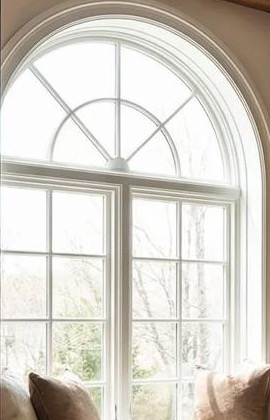
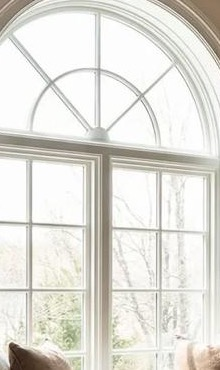
Attic: chair in the corner, seated legs, case clearance, fabric cushions, clean window, zoom buttons

diff --git a/src/lib/attic/scene.ts b/src/lib/attic/scene.ts
@@ -113,6 +113,33 @@ function wood(color: string, roughness = 0.82) {
   return new THREE.MeshStandardMaterial({ color, map: grain(), roughness, metalness: 0.02 });
 }
 
+function fabricTexture(base: string): THREE.Texture {
+  return canvasTexture(256, 256, (ctx) => {
+    const rand = rng(29);
+    ctx.fillStyle = base;
+    ctx.fillRect(0, 0, 256, 256);
+    for (let i = 0; i < 5200; i++) {
+      const light = rand() > 0.5;
+      ctx.fillStyle = light ? "rgba(255,255,255,0.05)" : "rgba(0,0,0,0.05)";
+      ctx.fillRect(rand() * 256, rand() * 256, 1.6, 1.6);
+    }
+    ctx.strokeStyle = "rgba(0,0,0,0.04)";
+    ctx.lineWidth = 1;
+    for (let x = 0; x < 256; x += 5) {
+      ctx.beginPath();
+      ctx.moveTo(x, 0);
+      ctx.lineTo(x, 256);
+      ctx.stroke();
+    }
+    for (let y = 0; y < 256; y += 5) {
+      ctx.beginPath();
+      ctx.moveTo(0, y);
+      ctx.lineTo(256, y);
+      ctx.stroke();
+    }
+  });
+}
+
 function plaster(color: string) {
   return new THREE.MeshStandardMaterial({ color, roughness: 0.95, metalness: 0 });
 }
@@ -517,7 +544,7 @@ export function createAttic(canvas: HTMLCanvasElement, options: AtticOptions = {
   scene.background = new THREE.Color("#2a1c12");
   scene.fog = new THREE.FogExp2(0x2a1c12, 0.012);
 
-  const camera = new THREE.PerspectiveCamera(66, 1, 0.05, 60);
+  const camera = new THREE.PerspectiveCamera(68, 1, 0.05, 60);
 
   /* --- books ---------------------------------------------------------- */
 
@@ -556,11 +583,11 @@ export function createAttic(canvas: HTMLCanvasElement, options: AtticOptions = {
 
   // Rug
   const rug = new THREE.Mesh(
-    new THREE.PlaneGeometry(3.6, 2.6),
+    new THREE.PlaneGeometry(3.1, 2.35),
     new THREE.MeshStandardMaterial({ map: rugTexture(), roughness: 1 }),
   );
   rug.rotation.x = -Math.PI / 2;
-  rug.position.set(0.45, 0.008, 0.15);
+  rug.position.set(0.15, 0.008, 0.1);
   rug.receiveShadow = true;
   scene.add(rug);
 
@@ -670,16 +697,6 @@ export function createAttic(canvas: HTMLCanvasElement, options: AtticOptions = {
   view.position.set(0, WIN.sill + (WIN.arch + WIN.spring - WIN.sill) / 2, -ROOM.d / 2 - 0.07);
   scene.add(view);
 
-  // Mullions
-  const barMat = wood("#efe8d9", 0.55);
-  const barV = new THREE.Mesh(rounded(0.045, 2.2, 0.05, 0.008), barMat);
-  barV.position.set(0, 1.45, -ROOM.d / 2 + 0.2);
-  scene.add(barV);
-  for (const y of [1.45, 2.05]) {
-    const barH = new THREE.Mesh(rounded(WIN.w, 0.045, 0.05, 0.008), barMat);
-    barH.position.set(0, y, -ROOM.d / 2 + 0.2);
-    scene.add(barH);
-  }
 
   // Sill and window seat
   const sill = new THREE.Mesh(rounded(2.9, 0.09, 0.24, 0.02), wood("#e9e0cf", 0.7));
@@ -695,17 +712,58 @@ export function createAttic(canvas: HTMLCanvasElement, options: AtticOptions = {
   seatTop.position.set(0, 0.51, -ROOM.d / 2 + 0.42);
   scene.add(seatTop);
 
-  const cushionMat = new THREE.MeshStandardMaterial({ color: "#b3a58d", roughness: 1, map: grain() });
-  const cushionMat2 = new THREE.MeshStandardMaterial({ color: "#9c886c", roughness: 1, map: grain() });
-  [["#d8cbb4", -0.85, 0.75], ["#c3ad8c", -0.18, 0.66], ["#e9e2d4", 0.5, 0.7]].forEach(
-    ([color, x, w], i) => {
-      const cushion = new THREE.Mesh(rounded(Number(w), 0.22, 0.46, 0.07), i === 1 ? cushionMat2 : cushionMat);
-      cushion.position.set(Number(x), 0.69, -ROOM.d / 2 + 0.42);
-      cushion.rotation.z = (i - 1) * 0.06;
-      cushion.castShadow = true;
-      scene.add(cushion);
-    },
+  const cushionA = new THREE.MeshStandardMaterial({
+    map: fabricTexture("#d9cdb6"),
+    roughness: 1,
+    color: "#ffffff",
+  });
+  const cushionB = new THREE.MeshStandardMaterial({
+    map: fabricTexture("#a98a63"),
+    roughness: 1,
+    color: "#ffffff",
+  });
+
+  const cushions: Array<[THREE.Material, number, number, number]> = [
+    [cushionA, -0.92, 0.8, 0.24],
+    [cushionB, -0.16, 0.72, 0.28],
+    [cushionA, 0.55, 0.66, 0.22],
+  ];
+  cushions.forEach(([material, x, w, h], i) => {
+    const cushion = new THREE.Mesh(rounded(w, h, 0.46, 0.1), material);
+    cushion.position.set(x, 0.51 + h / 2 + 0.01, -ROOM.d / 2 + 0.42);
+    cushion.rotation.z = (i - 1) * 0.05;
+    cushion.rotation.y = (i - 1) * 0.04;
+    cushion.castShadow = true;
+    scene.add(cushion);
+  });
+
+  // A folded throw over the left end of the seat.
+  const throwTex = canvasTexture(256, 256, (ctx) => {
+    ctx.fillStyle = "#6d4a3a";
+    ctx.fillRect(0, 0, 256, 256);
+    ctx.strokeStyle = "rgba(232, 220, 200, 0.35)";
+    ctx.lineWidth = 6;
+    for (let x = 0; x < 256; x += 42) {
+      ctx.beginPath();
+      ctx.moveTo(x, 0);
+      ctx.lineTo(x, 256);
+      ctx.stroke();
+    }
+    ctx.lineWidth = 3;
+    for (let y = 0; y < 256; y += 42) {
+      ctx.beginPath();
+      ctx.moveTo(0, y);
+      ctx.lineTo(256, y);
+      ctx.stroke();
+    }
+  });
+  const throwBlanket = new THREE.Mesh(
+    rounded(0.52, 0.06, 0.5, 0.02),
+    new THREE.MeshStandardMaterial({ map: throwTex, roughness: 1 }),
   );
+  throwBlanket.position.set(-1.02, 0.6, -ROOM.d / 2 + 0.42);
+  throwBlanket.rotation.y = 0.12;
+  scene.add(throwBlanket);
 
   // Books lying on the seat (the ones being read)
   reading.slice(0, 3).forEach((book, i) => {
@@ -723,10 +781,10 @@ export function createAttic(canvas: HTMLCanvasElement, options: AtticOptions = {
   const caseW = SHELF.w;
   const third = Math.ceil(toRead.length / 3);
 
-  const makeCase = (books: Book[], width = caseW, rows = SHELF.rows) =>
+  const makeCase = (books: Book[], width = caseW, rows = SHELF.rows, height = SHELF.h) =>
     buildCase({
       width,
-      height: SHELF.h,
+      height,
       rows,
       books,
       atlases: toReadAtlas.atlases,
@@ -743,7 +801,7 @@ export function createAttic(canvas: HTMLCanvasElement, options: AtticOptions = {
   scene.add(right);
 
   // The third case, on the right wall behind the chair.
-  const backCase = makeCase(toRead.slice(third * 2), 2.5);
+  const backCase = makeCase(toRead.slice(third * 2), 2.5, 4, 2.4);
   backCase.position.set(ROOM.w / 2 - 0.2, 0, -1.0);
   backCase.rotation.y = -Math.PI / 2;
   scene.add(backCase);
@@ -769,7 +827,7 @@ export function createAttic(canvas: HTMLCanvasElement, options: AtticOptions = {
     leaf.rotation.set(leafRand() * 0.8 - 0.3, a, leafRand() * 0.7 - 0.35);
     plant.add(leaf);
   }
-  plant.position.set(3.35, 0, 1.55);
+  plant.position.set(3.4, 0, 1.7);
   scene.add(plant);
 
   const floorStack = new THREE.Group();
@@ -782,7 +840,7 @@ export function createAttic(canvas: HTMLCanvasElement, options: AtticOptions = {
     book.rotation.y = (leafRand() - 0.5) * 0.2;
     floorStack.add(book);
   }
-  floorStack.position.set(3.05, 0, 1.05);
+  floorStack.position.set(3.1, 0, 1.2);
   scene.add(floorStack);
 
   /* --- the leather club chair  /* --- the leather club chair ------------------------------------------ */
@@ -880,15 +938,15 @@ export function createAttic(canvas: HTMLCanvasElement, options: AtticOptions = {
 
   for (const [sx, sz] of [[-1, -1], [1, -1], [-1, 1], [1, 1]] as const) {
     const leg = new THREE.Mesh(
-      new THREE.CylinderGeometry(0.032, 0.026, 0.2, 10),
+      new THREE.CylinderGeometry(0.032, 0.026, 0.27, 10),
       wood("#3a2415", 0.7),
     );
-    leg.position.set(sx * 0.36, 0.1, sz * 0.3);
+    leg.position.set(sx * 0.36, 0.135, sz * 0.3);
     chair.add(leg);
   }
 
-  chair.position.set(1.55, 0, -0.05);
-  chair.rotation.y = -1.15;
+  chair.position.set(2.45, 0, -0.95);
+  chair.rotation.y = -2.2;
   scene.add(chair);
 
   /* --- the round table -------------------------------------------------- */
@@ -954,7 +1012,7 @@ export function createAttic(canvas: HTMLCanvasElement, options: AtticOptions = {
     table.add(book);
   }
 
-  table.position.set(2.42, 0, 0.72);
+  table.position.set(2.3, 0, 0.35);
   scene.add(table);
 
   /* --- contact shadows -------------------------------------------------- */
@@ -1083,8 +1141,8 @@ export function createAttic(canvas: HTMLCanvasElement, options: AtticOptions = {
     maxDolly: 1,
   };
 
-  const base = new THREE.Vector3(-1.85, 1.68, 2.55);
-  const look = new THREE.Vector3(0.95, 1.9, -3.3);
+  const base = new THREE.Vector3(-1.35, 1.68, 2.85);
+  const look = new THREE.Vector3(1.7, 1.9, -3.3);
 
   function pose(yaw = rig.yaw, dolly = rig.dolly) {
     const pos = new THREE.Vector3(base.x + Math.sin(yaw) * 0.45, base.y, base.z - dolly * 1.8);
@@ -1163,7 +1221,7 @@ export function createAttic(canvas: HTMLCanvasElement, options: AtticOptions = {
     if (Math.abs(e.deltaX) > Math.abs(e.deltaY)) {
       rig.goalYaw = Math.max(rig.minYaw, Math.min(rig.maxYaw, rig.goalYaw + e.deltaX * 0.003));
     } else {
-      rig.goalDolly = Math.max(rig.minDolly, Math.min(rig.maxDolly, rig.goalDolly + e.deltaY * 0.0012));
+      rig.goalDolly = Math.max(rig.minDolly, Math.min(rig.maxDolly, rig.goalDolly + e.deltaY * 0.004));
     }
   }
 
@@ -1247,6 +1305,9 @@ export function createAttic(canvas: HTMLCanvasElement, options: AtticOptions = {
   frame();
 
   return {
+    zoom(step: number) {
+      rig.goalDolly = Math.max(rig.minDolly, Math.min(rig.maxDolly, rig.goalDolly + step));
+    },
     dispose() {
       disposed = true;
       cancelAnimationFrame(raf);
